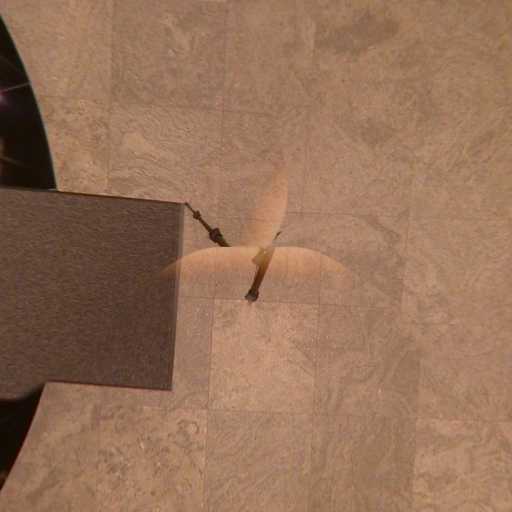
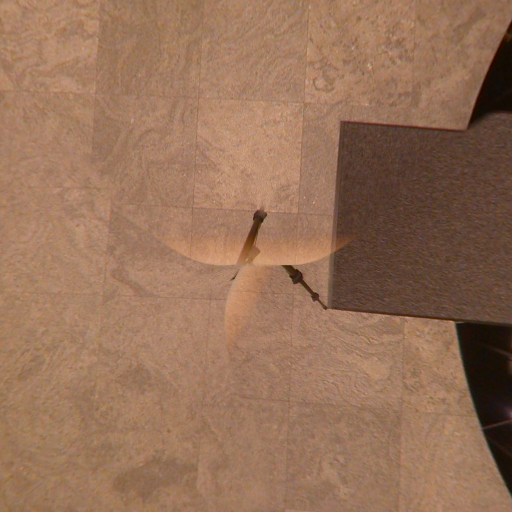
Fixed Office Textures

diff --git a/CPI411/Assignment2/Assignment2.cs b/CPI411/Assignment2/Assignment2.cs
@@ -110,7 +110,7 @@ namespace Assignment2
             string[] officeSkyboxTextures =
             {
                 "Office/nvlobby_new_posx", "Office/nvlobby_new_negx",
-                "Office/nvlobby_new_posy", "Office/nvlobby_new_negy",
+                "Office/nvlobby_new_negy", "Office/nvlobby_new_posy",
                 "Office/nvlobby_new_posz", "Office/nvlobby_new_negz"
             };
             officeSkybox = new Skybox(officeSkyboxTextures, Content, GraphicsDevice);
